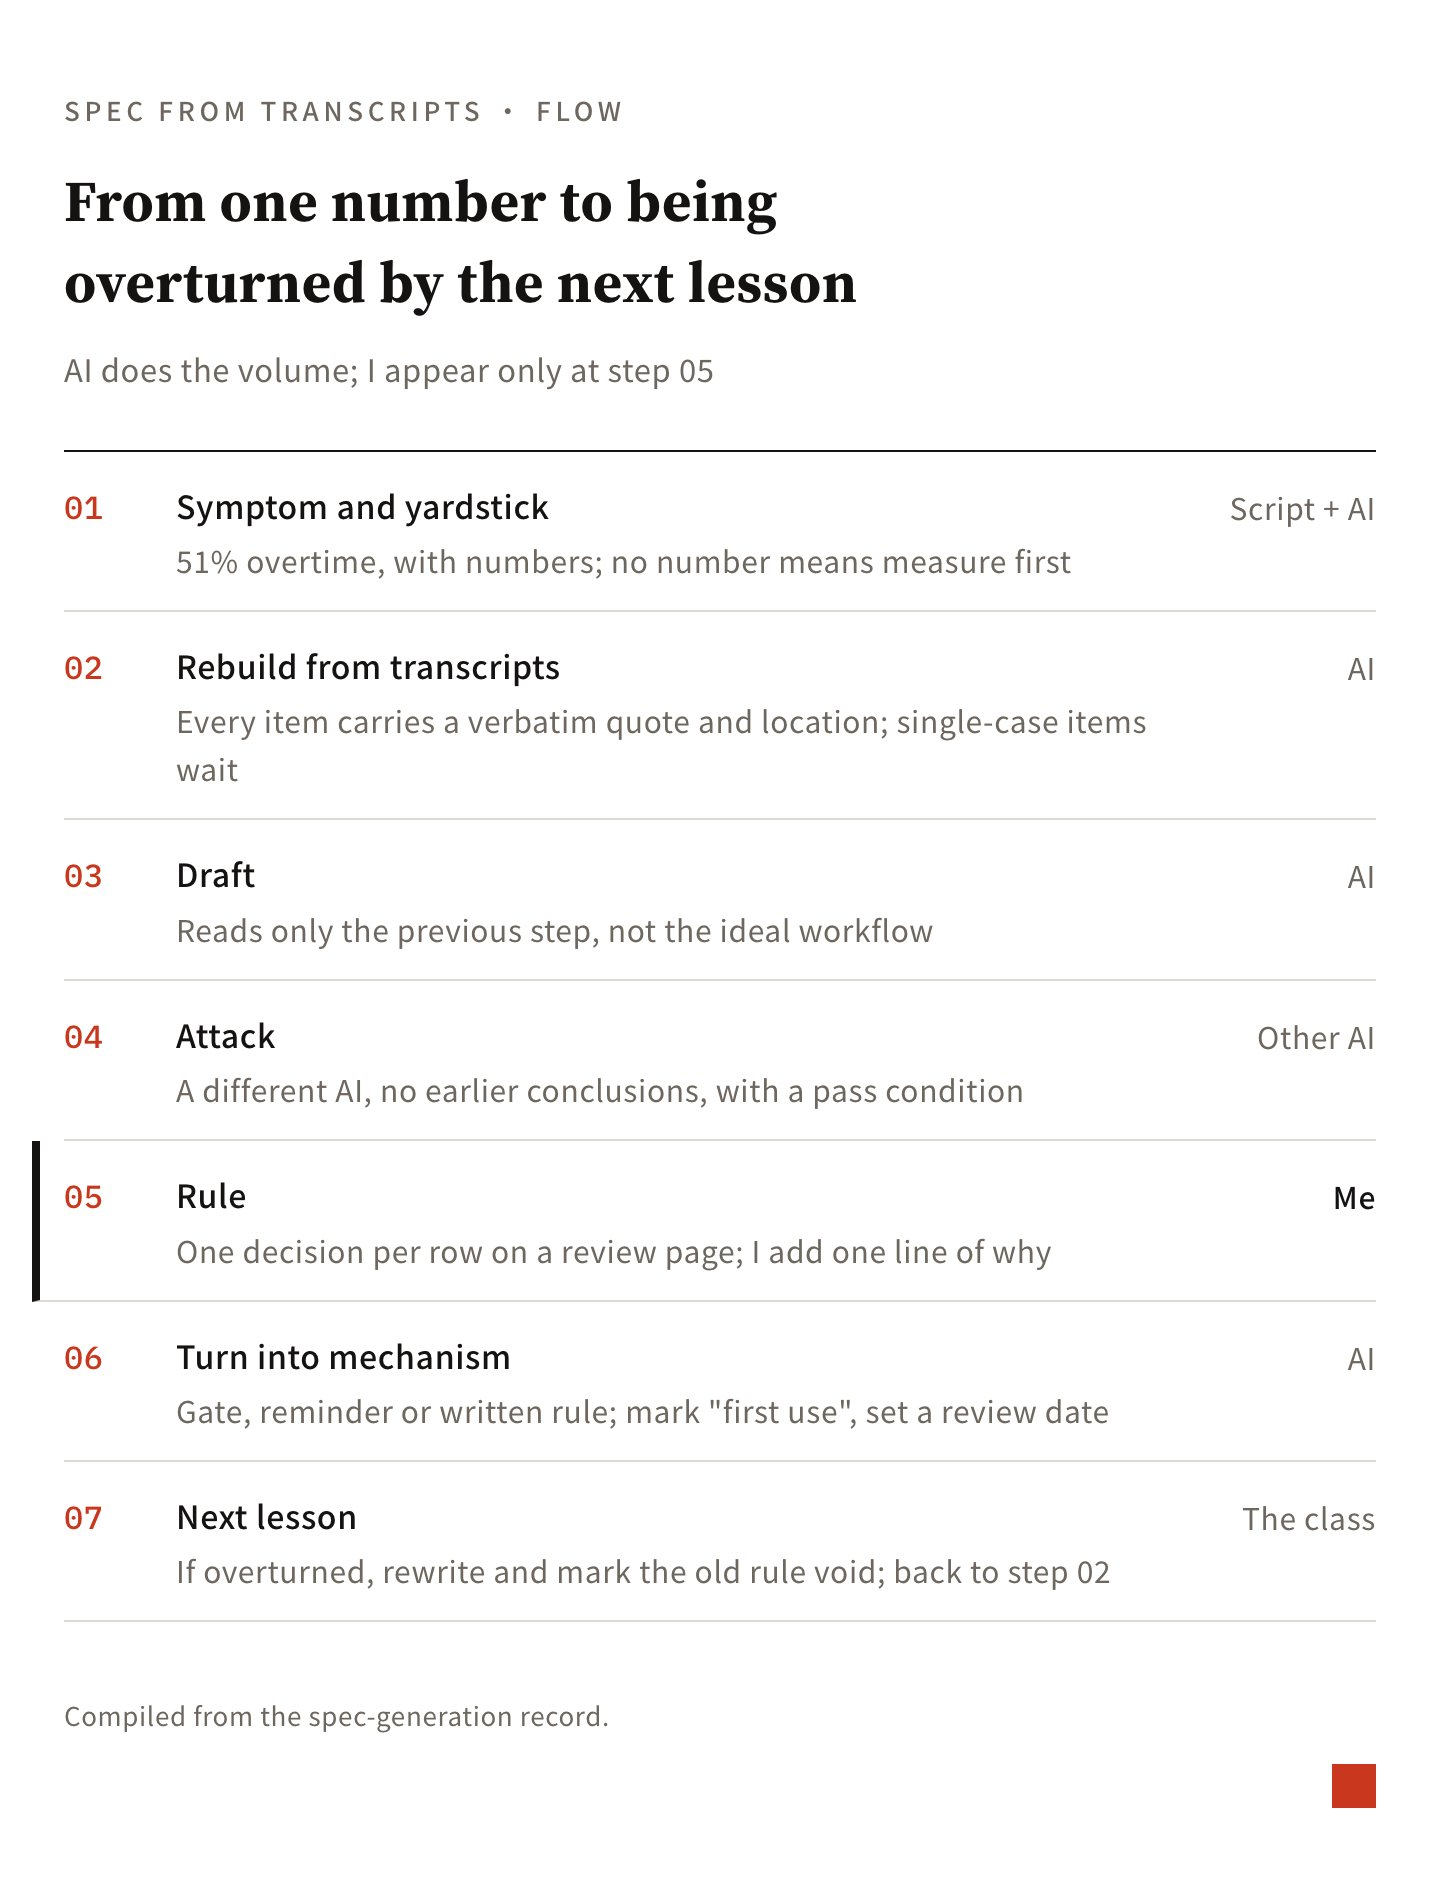
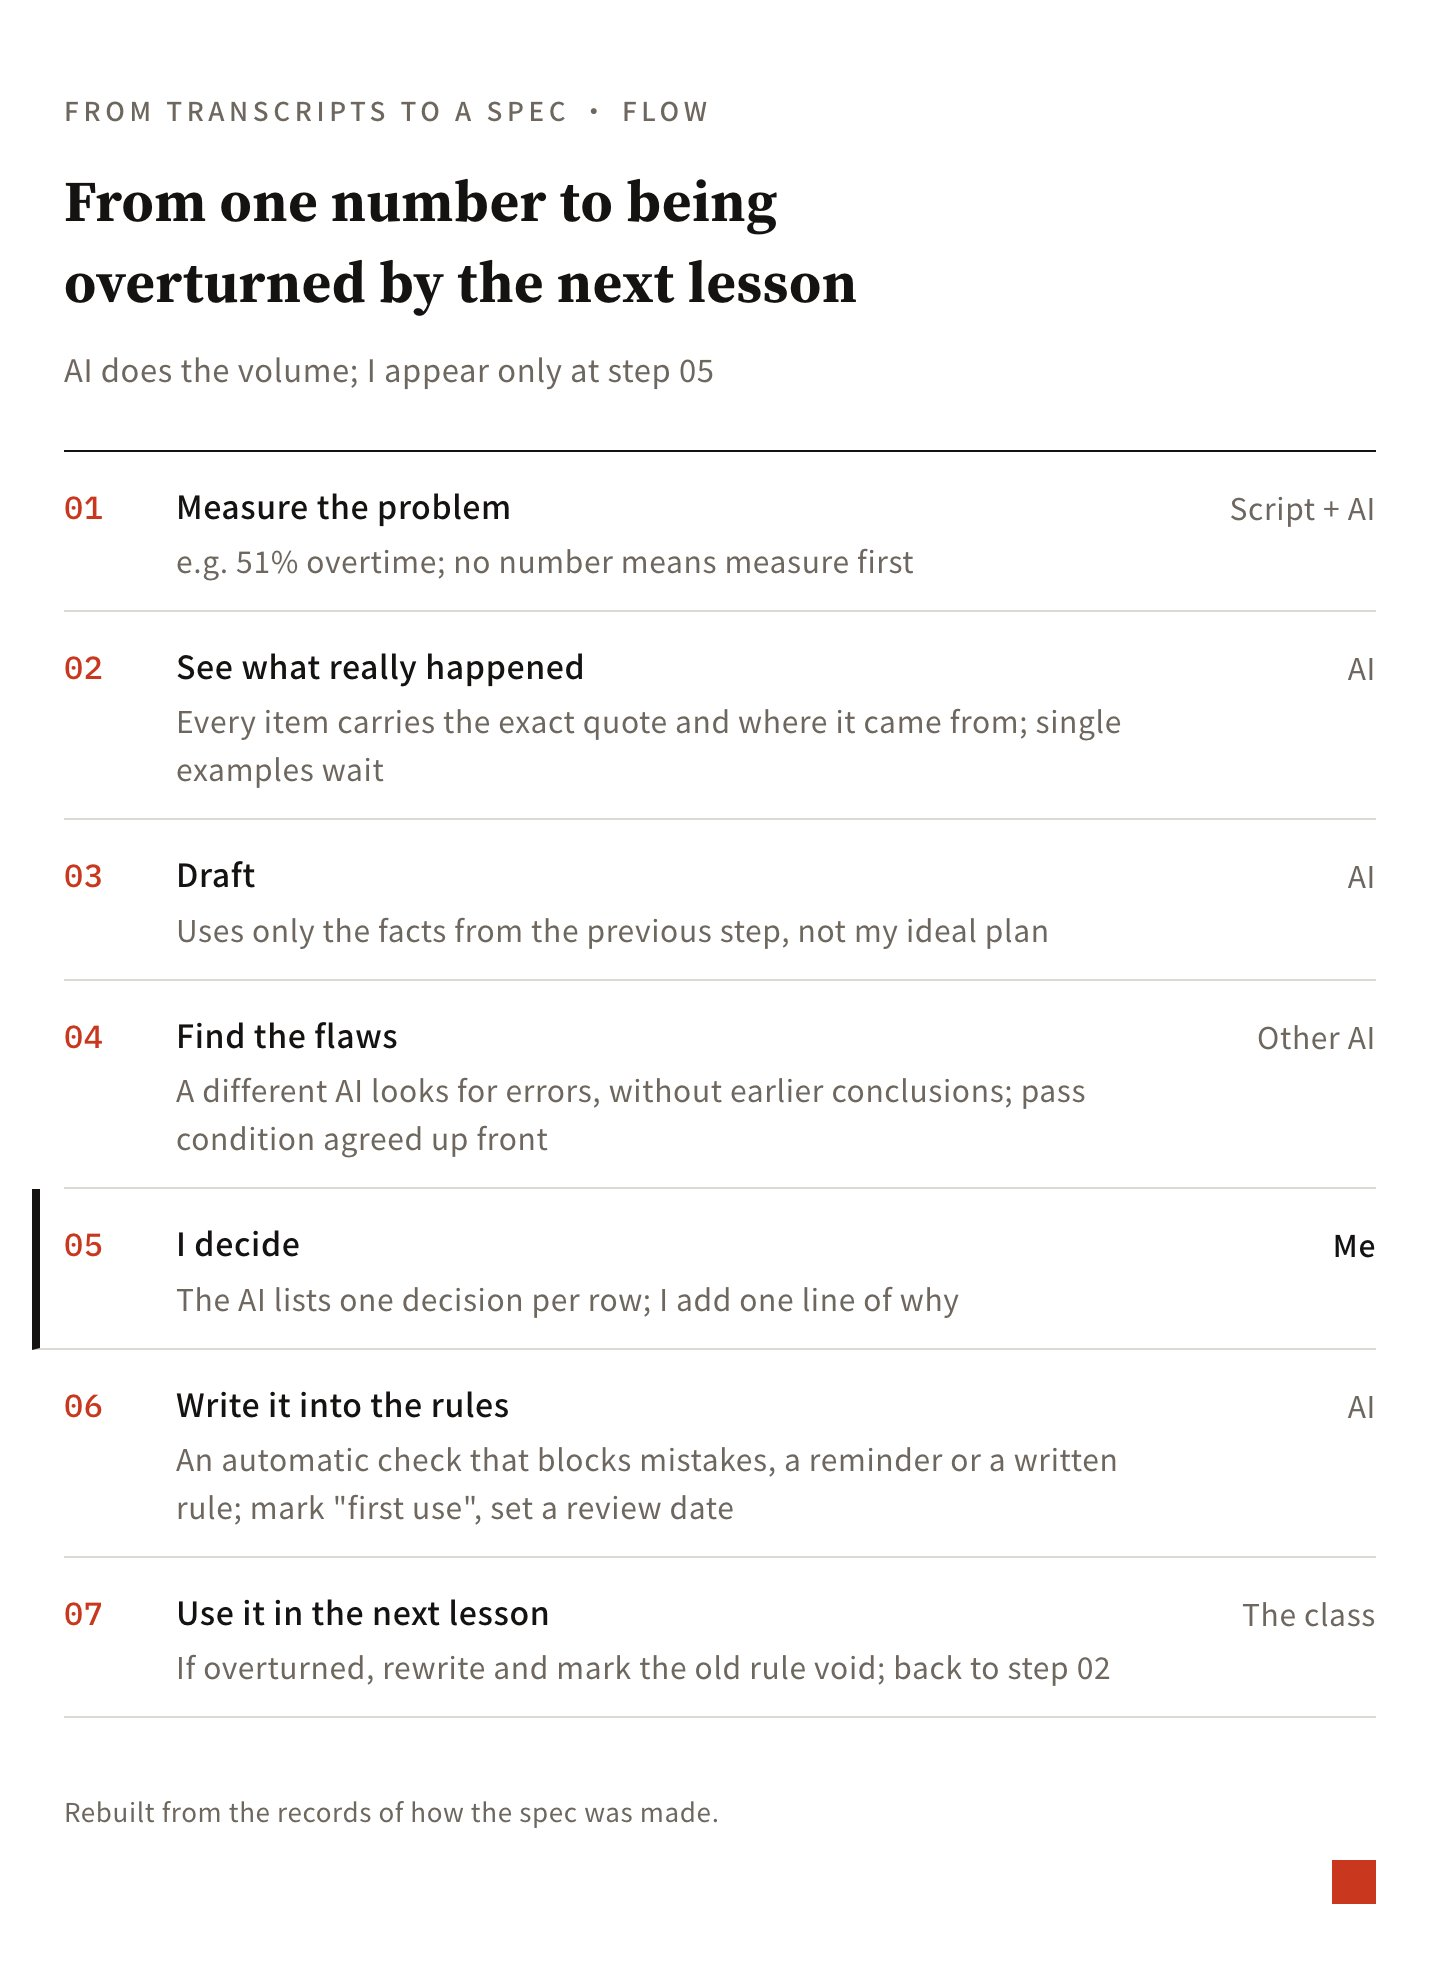
docs(blog): plain-language labels on teaching spec flow figure

diff --git a/src/data/blog/en/teaching-spec-from-transcripts.md b/src/data/blog/en/teaching-spec-from-transcripts.md
@@ -36,7 +36,7 @@ The fourth problem was my own time. My time belongs on making decisions, not on 
 
 The division of labor I wanted: pulling the key points out of transcripts, drafting, and fault-finding all go to AI, split across different AIs so that no AI writes and reviews its own work. I appear only at the decision step, on a single page, one decision per row.
 
-[![The seven steps of spec generation and who does each: symptom and yardstick, rebuild from transcripts, draft, attack, ruling, turn into mechanism, next-lesson test; only step five, the ruling, is mine](/blog/assets/posts/teaching-spec-from-transcripts/1-loop-en.jpg)](/blog/assets/posts/teaching-spec-from-transcripts/1-loop-en.jpg)
+[![The seven steps from transcripts to a spec and who does each: measure the problem, see what really happened, draft, another AI finds the flaws, I decide, write it into the rules, use it in the next lesson; only step five is mine](/blog/assets/posts/teaching-spec-from-transcripts/1-loop-en.jpg)](/blog/assets/posts/teaching-spec-from-transcripts/1-loop-en.jpg)
 
 The key turns, by date:
 
